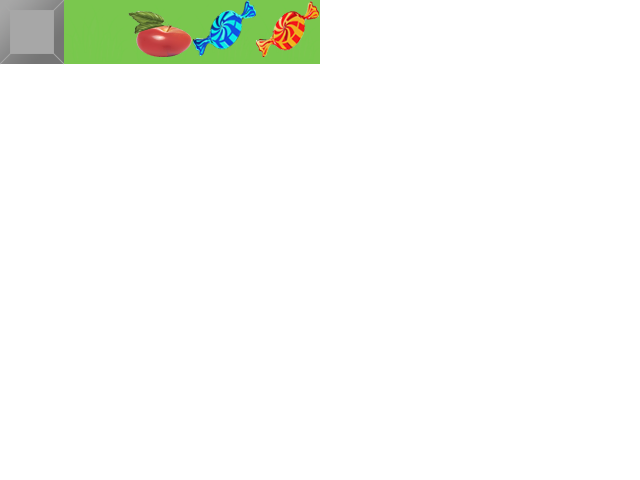
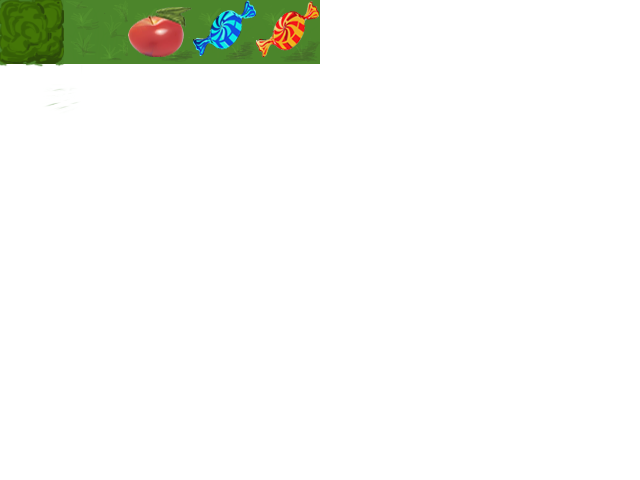
Small fixes on tiles

Changed region(s): [[0.0, 0.0, 0.5, 0.1562]]

diff --git a/main.cpp b/main.cpp
@@ -13,7 +13,9 @@ int main()
     //Asset manager
     //Image, fonts, sounds should only be loaded once, and then used where needed
     AssetManager *asset_manager = new AssetManager();
-	asset_manager->loadTexture("assets/tiles1-5.png"); 
+	asset_manager->loadTexture("assets/tiles1-5.png");
+	asset_manager->loadTexture("assets/tiles6-10.png");
+	asset_manager->loadTexture("assets/tiles11-15.png");
 	asset_manager->loadTexture("assets/snake.png");
 	asset_manager->loadTexture("assets/menu2.png");
 	asset_manager->loadTexture("assets/background.png");

diff --git a/levelEditorScene.cpp b/levelEditorScene.cpp
@@ -131,7 +131,7 @@ void LevelEditorScene::handleRender()
         selectedToolText.setPosition(10, 40);
 
         tile.setSize(this->tile_size);
-        tile.setTexture(asset_manager->getTexture("assets/tiles1-5.png"));
+        tile.setTexture(asset_manager->getTexture("assets/tiles6-10.png"));
 
         setup = true;
     }
